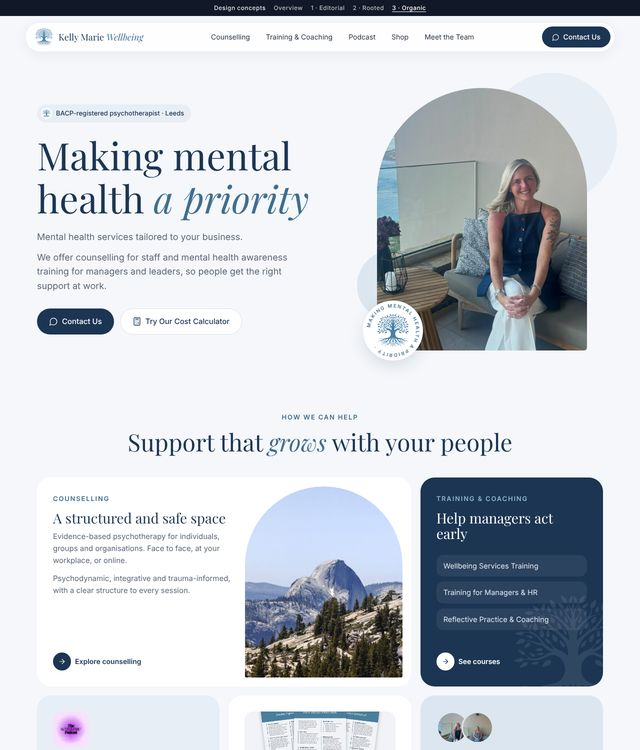
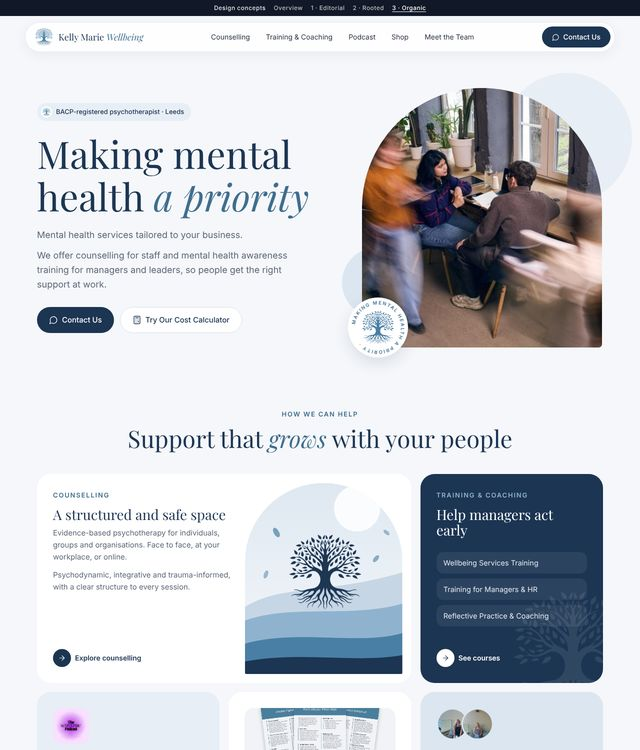
Concept 3: office photo in hero, illustration instead of mountain photo
Claude-Session: https://claude.ai/code/session_01TcJoQ2zraXjaUYH9nBUqMs

diff --git a/design-concepts/concept-3-organic.html b/design-concepts/concept-3-organic.html
@@ -35,9 +35,9 @@
   .hero h1 em { color: var(--accent-text); }
   .hero p { color: var(--muted); font-size: 18px; max-width: 520px; margin-bottom: 12px; }
   .hero .actions { display: flex; gap: 12px; flex-wrap: wrap; margin-top: 30px; }
-  .arch-wrap { position: relative; justify-self: center; width: 100%; max-width: 420px; }
-  .arch { border-radius: 999px 999px 28px 28px; overflow: hidden; aspect-ratio: 4 / 5; background: var(--cream); }
-  .arch img { width: 100%; height: 100%; object-fit: cover; object-position: top; }
+  .arch-wrap { position: relative; justify-self: center; width: 100%; max-width: 480px; }
+  .arch { border-radius: 999px 999px 28px 28px; overflow: hidden; aspect-ratio: 1 / 1.08; background: var(--cream); }
+  .arch img { width: 100%; height: 100%; object-fit: cover; object-position: 62% center; }
   .blob { position: absolute; z-index: -1; border-radius: 50%; }
   .blob.a { width: 260px; height: 260px; background: var(--cream); right: -60px; top: -30px; }
   .blob.b { width: 140px; height: 140px; background: #dbe6f0; left: -40px; bottom: 60px; }
@@ -63,7 +63,7 @@
   .tile .go { margin-top: auto; padding-top: 22px; display: inline-flex; align-items: center; gap: 8px; font-size: 14px; font-weight: 600; color: var(--navy); }
   .go i { width: 36px; height: 36px; border-radius: 50%; background: var(--navy); color: #fff; display: inline-flex; align-items: center; justify-content: center; }
   .t-couns { grid-column: span 4; grid-row: span 2; background: #fff; padding-right: 46%; }
-  .t-couns img { position: absolute; right: 18px; top: 18px; bottom: 18px; width: 42%; height: calc(100% - 36px); object-fit: cover; object-position: center; border-radius: 999px 999px 20px 20px; }
+  .t-couns .illus { position: absolute; right: 18px; top: 18px; bottom: 18px; width: 42%; height: calc(100% - 36px); object-fit: cover; border-radius: 999px 999px 20px 20px; overflow: hidden; }
   .t-train { grid-column: span 2; grid-row: span 2; background: var(--navy); }
   .t-train h3 { color: #fff; }
   .t-train p { color: #c9d6e3; }
@@ -129,7 +129,7 @@
     .bento { grid-template-columns: 1fr; }
     .tile, .t-couns, .t-train, .t-pod, .t-shop, .t-team, .t-calc { grid-column: auto; grid-row: auto; }
     .t-couns { padding: 28px; }
-    .t-couns img { position: static; width: 100%; height: 280px; margin-bottom: 22px; order: -1; }
+    .t-couns .illus { position: static; width: 100%; height: 280px; margin-bottom: 22px; order: -1; }
     .t-calc { flex-direction: column; align-items: flex-start; }
     .steps { grid-template-columns: 1fr; gap: 40px; }
     .steps::before { display: none; }
@@ -173,7 +173,7 @@
       </div>
       <div class="arch-wrap">
         <span class="blob a"></span><span class="blob b"></span>
-        <div class="arch"><img src="assets/kelly.jpg" alt="Kelly Marie, founder and psychotherapist" /></div>
+        <div class="arch"><img src="assets/workplace.jpg" alt="Two people talking at a desk" /></div>
         <div class="seal">
           <svg viewBox="0 0 120 120" aria-hidden="true"><defs><path id="circ" d="M60,60 m-46,0 a46,46 0 1,1 92,0 a46,46 0 1,1 -92,0"/></defs><text><textPath href="#circ">Making mental health a priority · </textPath></text></svg>
           <img src="assets/tree-accent.png" alt="" />
@@ -187,7 +187,17 @@
       <div class="sec-title"><span class="kicker">How we can help</span><h2>Support that <em>grows</em> with your people</h2></div>
       <div class="bento">
         <a class="tile t-couns" href="#">
-          <img src="assets/mountain.jpg" alt="" />
+          <svg class="illus" viewBox="0 0 300 420" preserveAspectRatio="xMidYMax slice" aria-hidden="true">
+            <defs><linearGradient id="sky" x1="0" y1="0" x2="0" y2="1"><stop offset="0" stop-color="#dbe6f0"/><stop offset="1" stop-color="#f5f7fa"/></linearGradient></defs>
+            <rect width="300" height="420" fill="url(#sky)"/>
+            <circle cx="214" cy="104" r="44" fill="#fff" opacity=".85"/>
+            <path d="M0 292 C70 248 160 268 300 226 V420 H0Z" fill="#c6d6e5"/>
+            <image href="assets/tree-navy.png" x="78" y="150" width="150" height="150"/>
+            <path d="M0 318 C90 286 200 314 300 286 V420 H0Z" fill="#8fb3cf"/>
+            <path d="M0 362 C100 334 220 366 300 342 V420 H0Z" fill="#4a7fa5"/>
+            <path d="M0 396 C110 376 210 400 300 384 V420 H0Z" fill="#1c3553"/>
+            <g fill="#4a7fa5"><ellipse cx="60" cy="150" rx="5" ry="10" transform="rotate(-30 60 150)" opacity=".7"/><ellipse cx="250" cy="200" rx="4" ry="8" transform="rotate(40 250 200)" opacity=".6"/><ellipse cx="40" cy="230" rx="4" ry="8" transform="rotate(20 40 230)" opacity=".5"/><ellipse cx="270" cy="150" rx="3.5" ry="7" transform="rotate(-50 270 150)" opacity=".5"/></g>
+          </svg>
           <span class="kicker">Counselling</span>
           <h3 style="margin-top:12px">A structured and safe space</h3>
           <p>Evidence-based psychotherapy for individuals, groups and organisations. Face to face, at your workplace, or online.</p>

diff --git a/design-concepts/index.html b/design-concepts/index.html
@@ -29,7 +29,7 @@
 <main class="wrap grid">
   <a class="card" href="concept-1-editorial.html"><img src="previews/concept-1-editorial.jpg" alt="" /><div><h2>1 · Editorial</h2><p>Calm and magazine-like. Centred logo masthead, big serif headline, numbered services, a pull quote from Kelly.</p></div></a>
   <a class="card" href="concept-2-rooted.html"><img src="previews/concept-2-rooted.jpg" alt="" /><div><h2>2 · Rooted</h2><p>Bold and corporate. Navy hero with a large white tree, Kelly's portrait and BACP badge, overlapping service cards, enquiry form.</p></div></a>
-  <a class="card" href="concept-3-organic.html"><img src="previews/concept-3-organic.jpg" alt="" /><div><h2>3 · Organic</h2><p>Soft and friendly. Floating pill menu, arch-shaped photos, rounded bento grid of everything on offer, gentle three-step process.</p></div></a>
+  <a class="card" href="concept-3-organic.html"><img src="previews/concept-3-organic.jpg" alt="" /><div><h2>3 · Organic</h2><p>Soft and friendly. Floating pill menu, office photo in an arch, illustrated counselling tile, rounded bento grid of everything on offer, gentle three-step process.</p></div></a>
 </main>
 </body>
 </html>
